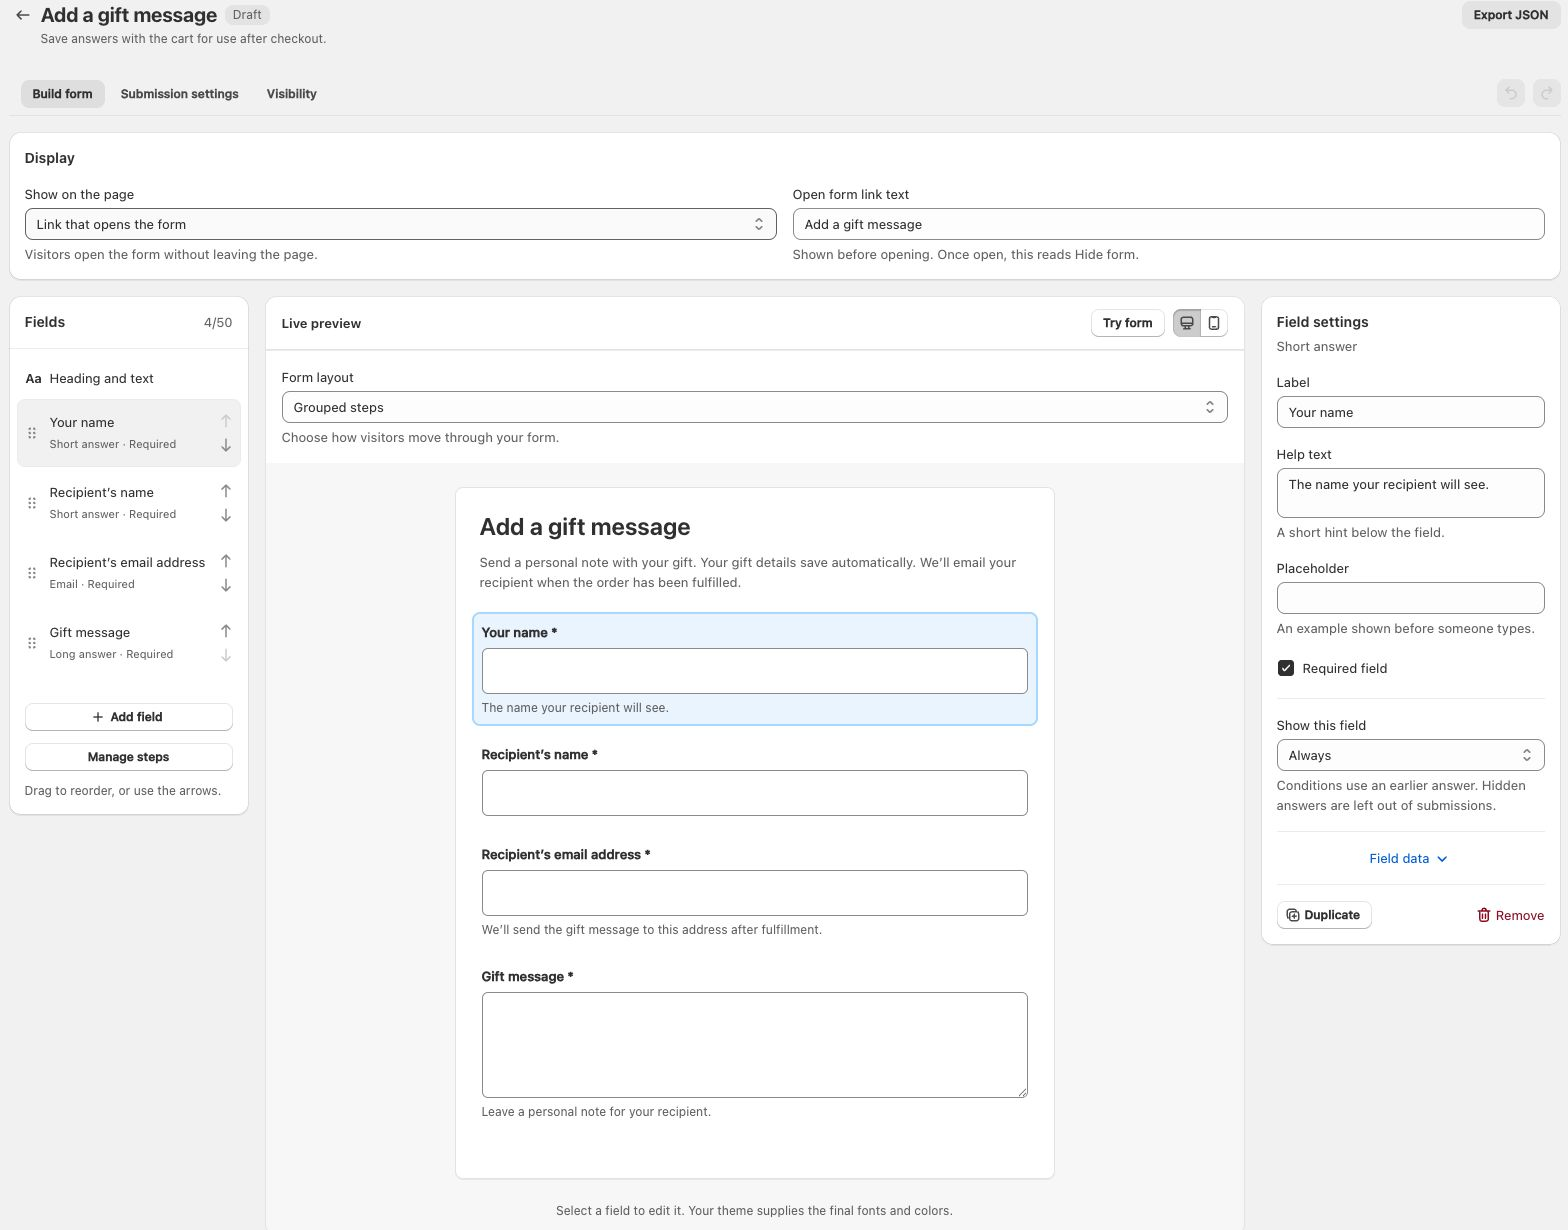
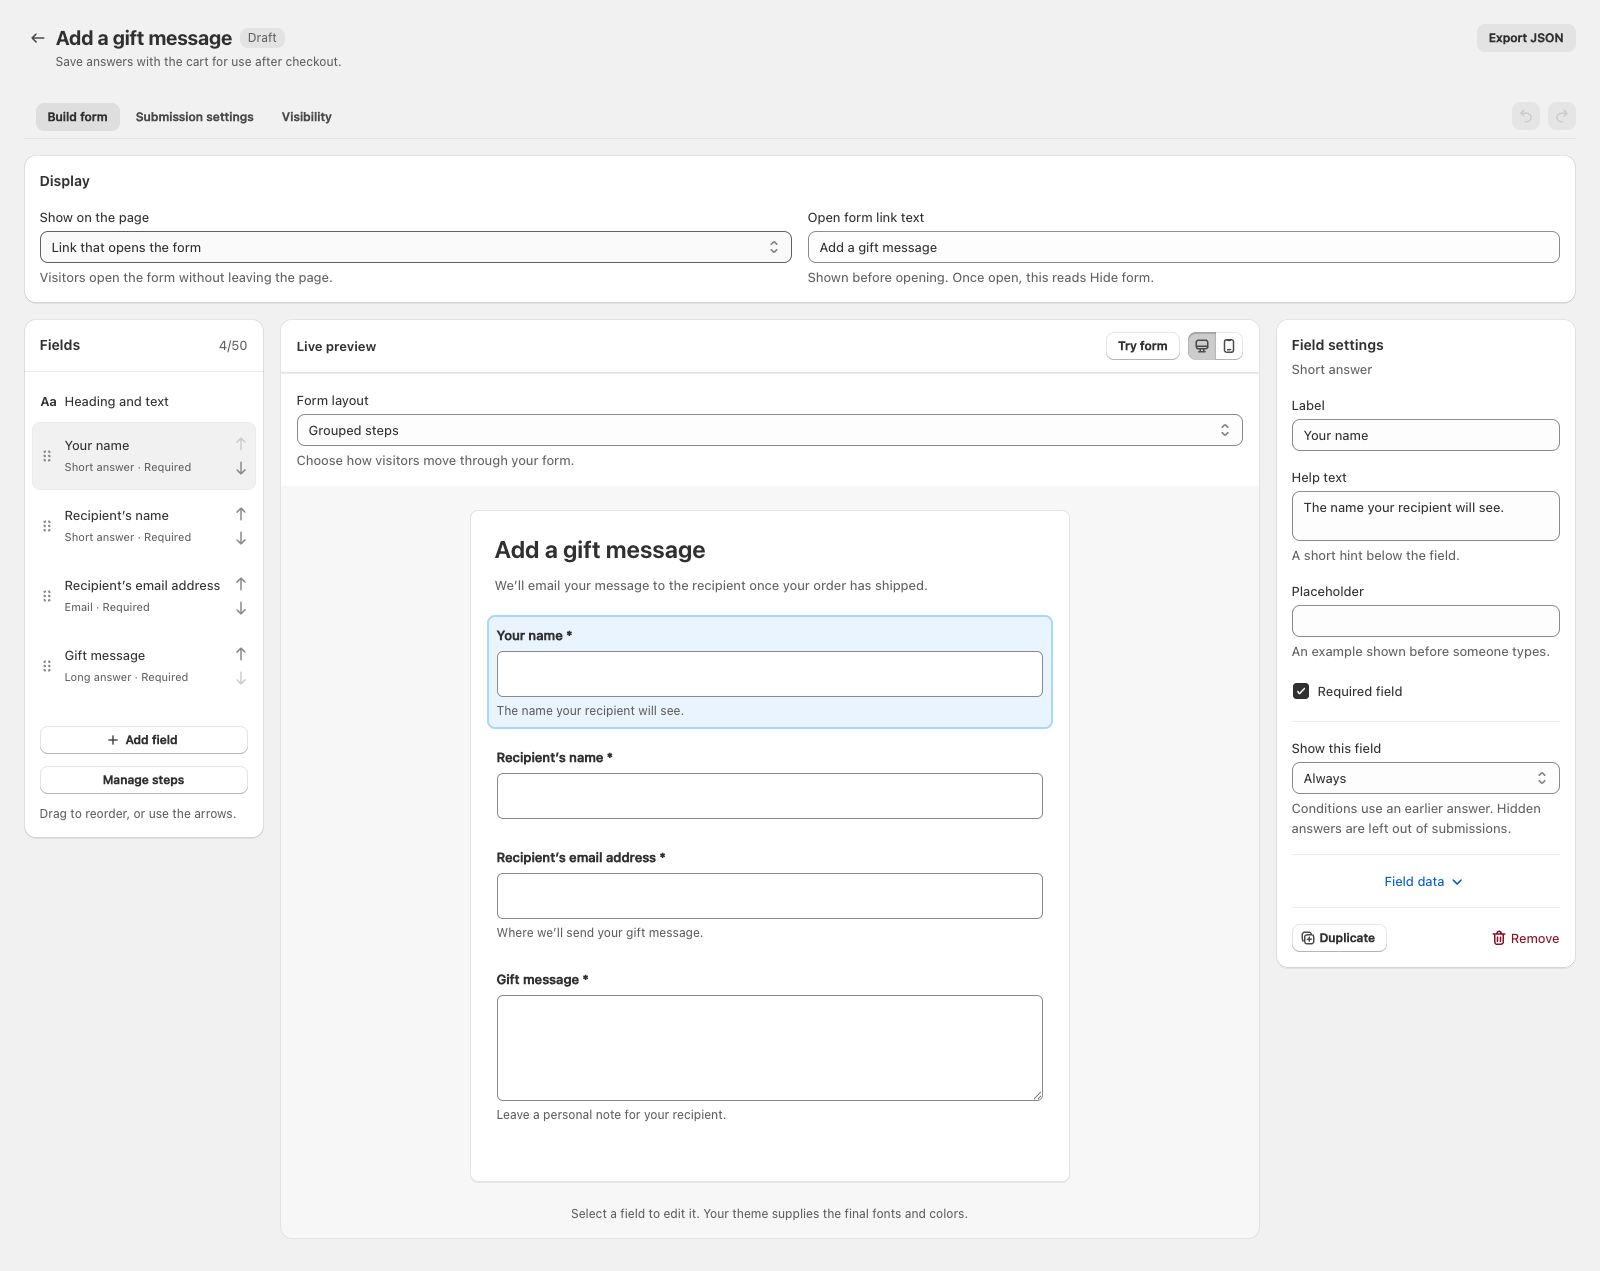
Explain the gift message link and refresh its copy

diff --git a/app/forms.md b/app/forms.md
@@ -55,7 +55,7 @@ Your theme supplies the form’s fonts and colors. You do not need to edit theme
 
 In the **Display** section at the top of **Build form**, set **Show on the page** to **Button that opens the form** and choose the **Open form button text**. The form opens in the same place on the page, and the opening button changes to **Hide form**. Visitors can close and reopen it without losing their answers. The **Submit button text** setting under **Heading and text** controls the separate button that sends the completed form. Cart-saving forms save complete answers automatically and have no final Save button. Choose **Full form** to display the questions immediately.
 
-For cart-saving forms, these settings are **Link that opens the form** and **Open form link text**. The opener looks like an understated text link, such as **Add a gift message**, and reveals the questions inline when chosen.
+For cart-saving forms, these settings are **Link that opens the form** and **Open form link text**. The opener looks like an understated text link, such as **Add a gift message**, and reveals the questions inline when chosen. The **Introduction**, under **Heading and text**, appears beneath the link while the form is closed, so customers can understand what it does before opening it. Once opened, the introduction appears beneath the form heading instead. Leave the introduction empty if you only want the link.
 
 This option works with any form. Visibility conditions apply to both the button and the form, and your theme still supplies the fonts and colors. Save and publish to change the storefront.
 

diff --git a/resources/tutorials/add-a-gift-message-form-to-your-shopify-theme.md b/resources/tutorials/add-a-gift-message-form-to-your-shopify-theme.md
@@ -35,6 +35,8 @@ Change the question labels, introduction, and help text to suit your store. Keep
 
 Under **Display**, the starter uses **Link that opens the form**, with **Add a gift message** as its link text. Customers choose this optional link to open the fields inline on the cart page. Shoppers who leave it untouched can check out normally without adding a gift message. Choose **Try form** to check the questions; the builder preview does not change a cart or send email.
 
+The introduction appears beneath the link before the form is opened: “We’ll email your message to the recipient once your order has shipped.” Edit **Introduction** under **Heading and text** to match your store and the task you connect. Opening the form moves this explanation beneath the heading.
+
 ## 2. Check automatic cart saving
 
 Open **Submission settings**. The starter selects **Automatically save to the cart** under **Save or send answers**. It does not need a webhook.
